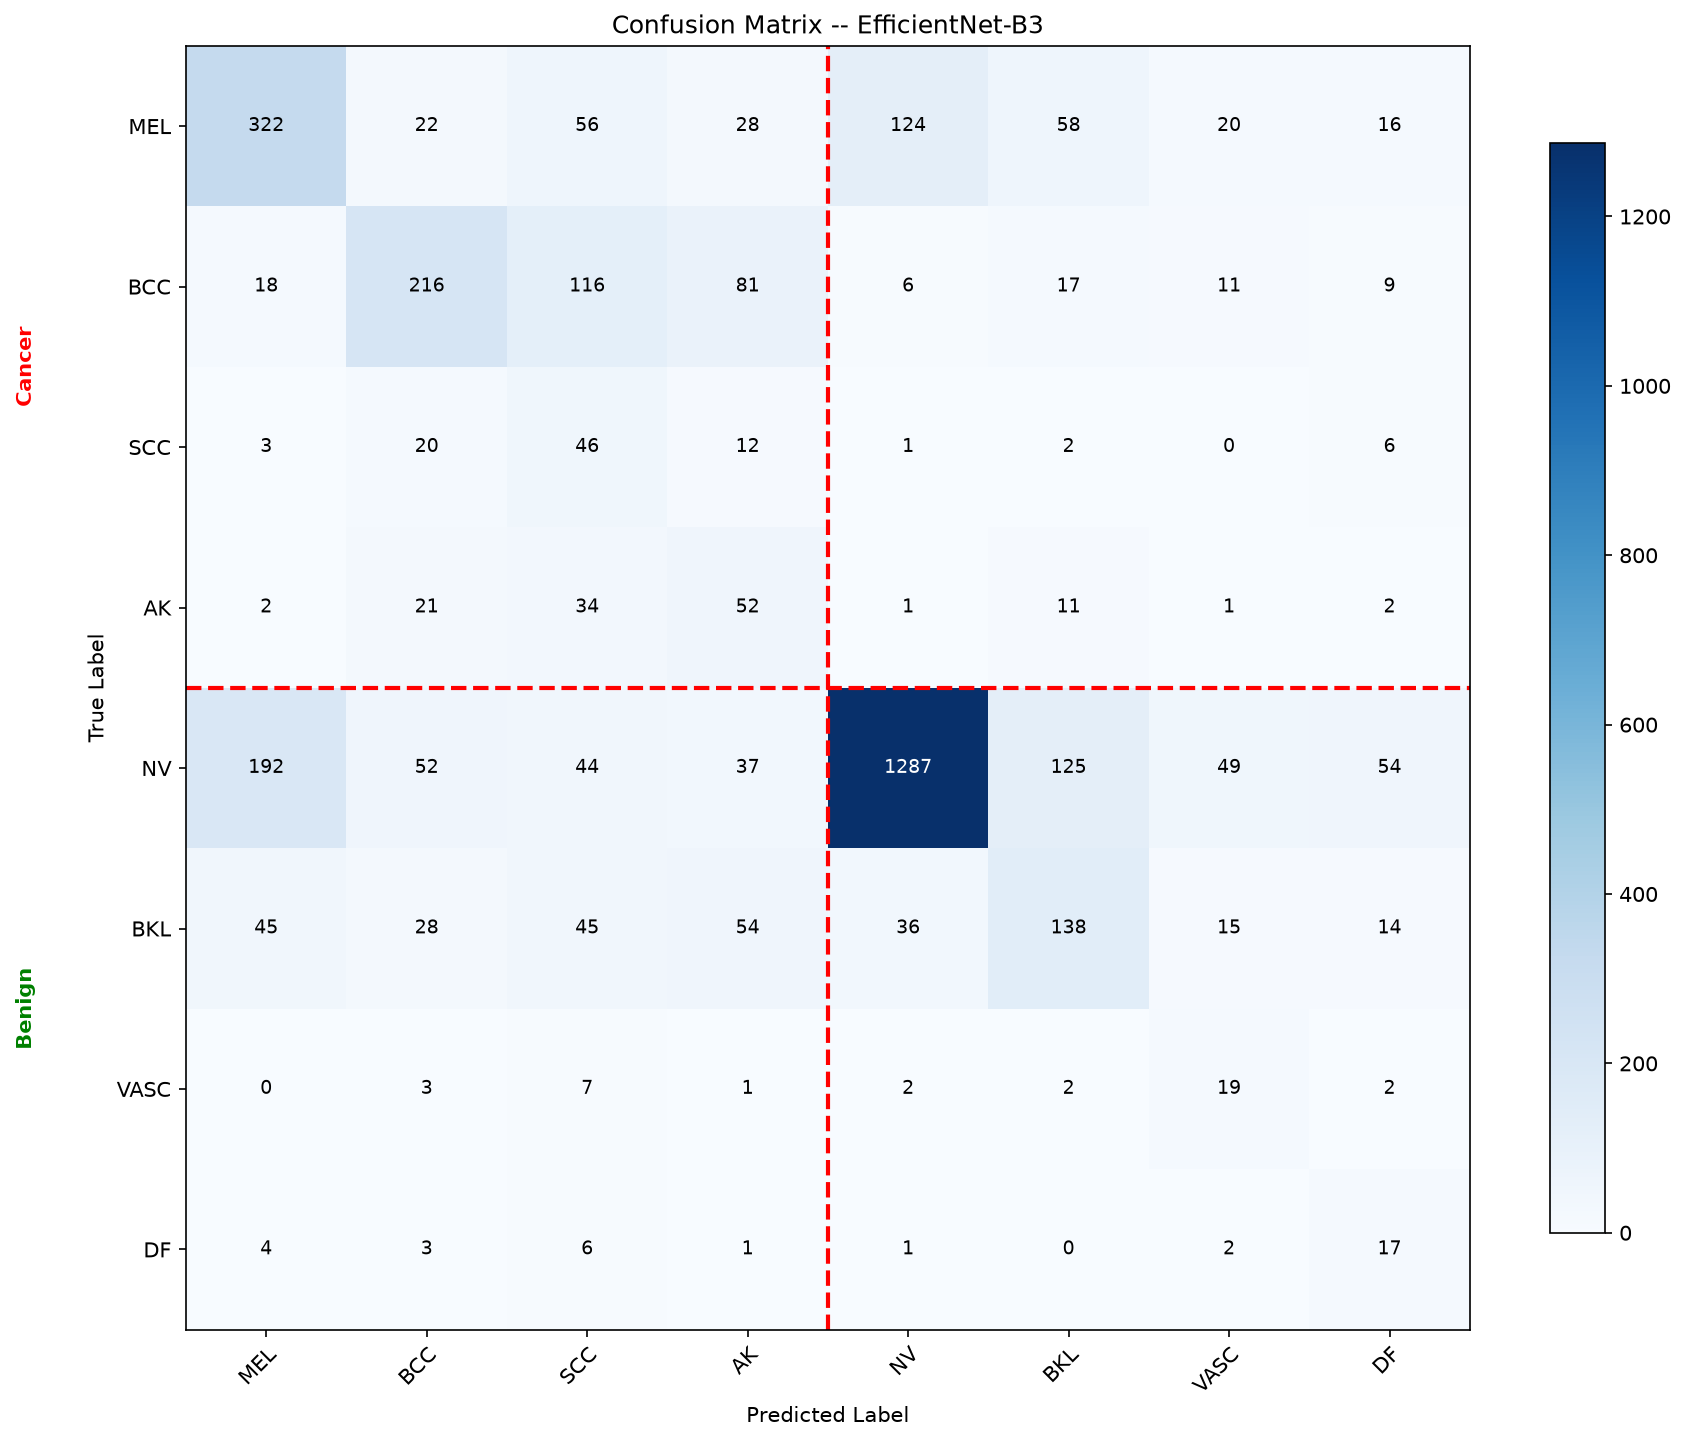
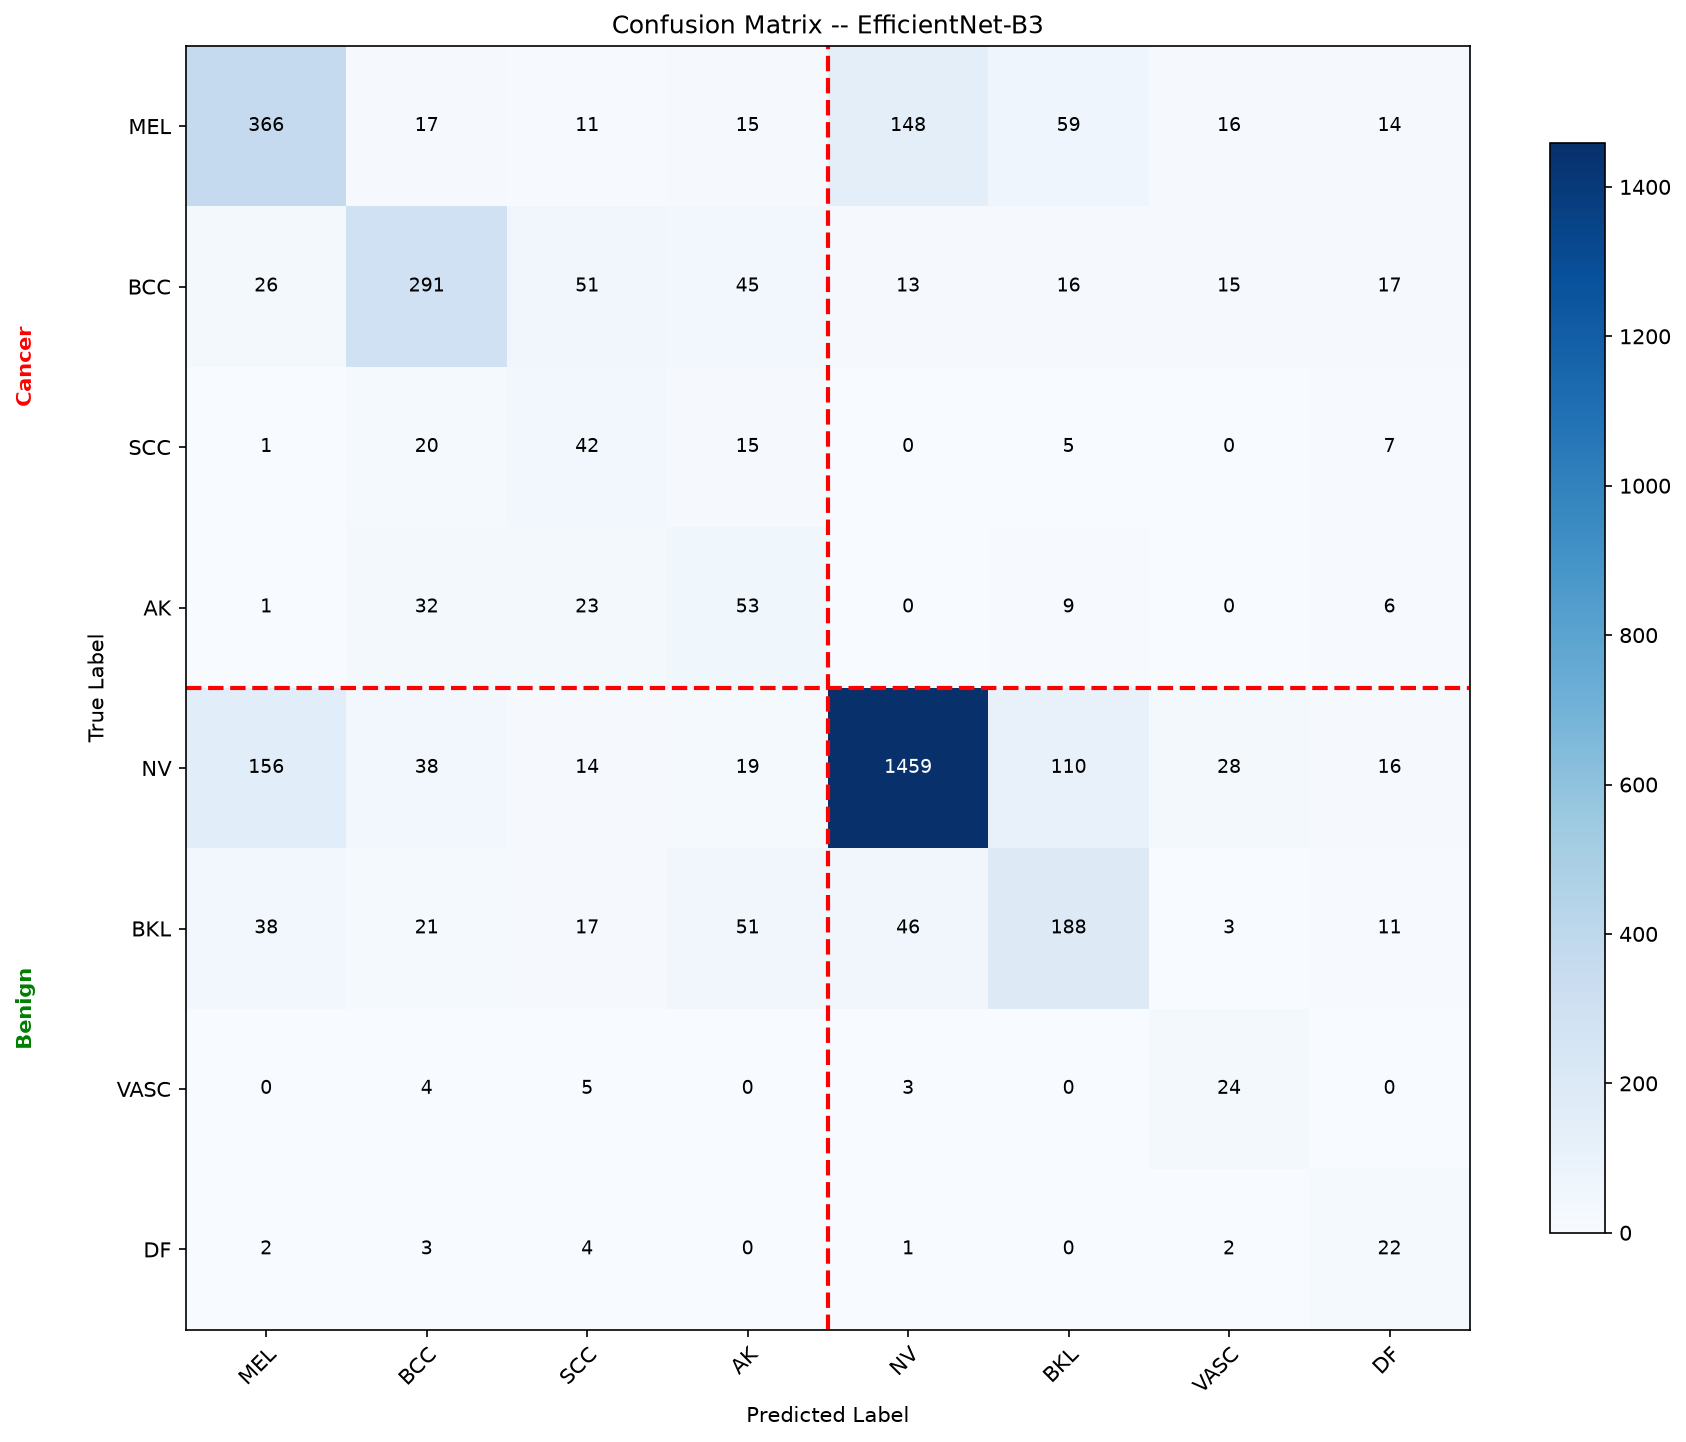
chore: metrics from unfreeze-more-layers run, update README results

diff --git a/README.md b/README.md
@@ -161,9 +161,9 @@ Linear(in_features, 512) -> ReLU -> BatchNorm1d(512) -> Dropout(0.3) -> Linear(5
 
 | Architecture | Total Parameters | Trainable Parameters | Fine-Tuning Backbone Depth |
 |---|---:|---:|---|
-| **ResNet50** | 24,562,248 | 16,018,952 | Layer 4 + Classifier Head |
-| **EfficientNet-B3** | 11,488,304 | 1,384,968 | Top Stage (Block 8) + Head |
-| **DenseNet121** | 7,483,784 | 2,688,008 | DenseBlock 4 + Transition + Head |
+| **ResNet50** | 24,562,248 | 23,117,320 | Layer 3 + Layer 4 + Classifier Head |
+| **EfficientNet-B3** | 11,488,304 | 9,298,150 | Stages 6–8 + Head |
+| **DenseNet121** | 7,483,784 | 6,054,152 | DenseBlock 3–4 + Transitions + Head |
 
 ---
 
@@ -171,24 +171,24 @@ Linear(in_features, 512) -> ReLU -> BatchNorm1d(512) -> Dropout(0.3) -> Linear(5
 
 Values below are copied from `metrics_*.json` (also shown in the web app's Model Performance tab).
 
-> [!WARNING]
-> These numbers were measured with the **old image-level split**, where 2,333 of the 3,800 test images
-> showed a lesion that also appeared in training. They are optimistic. Retrain with the current
-> lesion-grouped split (`python main.py`) and update this table from the new `metrics_*.json`.
+All numbers are on a **lesion-grouped** test split: every image of a lesion is in exactly one of
+train / validation / test, so the model is never tested on a lesion it saw during training. This is
+stricter (and lower) than the image-level random splits common in public notebooks.
 
 | Performance Metric | ResNet50 | DenseNet121 | EfficientNet-B3 | Clinical Benchmark Target |
 |---|:---:|:---:|:---:|:---:|
-| **Top-2 Differential Diagnosis** | **91.50% (Best)** | 85.21% | 78.39% | Primary Clinical Target (≥ 85%) |
-| **Top-3 Differential Diagnosis** | **96.50% (Best)** | 92.55% | 88.32% | Secondary Triage Target (≥ 90%) |
-| **Cancer Screening AUC-ROC** | **0.9245 (Best)** | 0.8934 | 0.8658 | Diagnostic Gold Standard (≥ 0.90) |
-| **Binary Malignancy Screening** | **85.37% (Best)** | 81.39% | 79.53% | Malignant vs Benign Triage |
-| **Exact 8-Class Match (Top-1)** | **75.66% (Best)** | 67.63% | 59.03% | Single Fine-Grained Label Match |
-| **Macro F1-Score** | **64.08% (Best)** | 53.07% | 42.80% | Cross-Class Balanced Harmonic Mean |
-| **Weighted F1-Score** | **75.67% (Best)** | 68.79% | 62.20% | Frequency-Weighted F1 |
-| **Cancer Sensitivity (Recall)** | **79.01% (Best)** | 77.94% | 73.59% | Malignancy Detection Rate |
-| **Cancer Specificity (Benign)** | **89.08% (Best)** | 83.41% | 82.99% | Non-Cancer Confirmation Rate |
-| **False Negative Rate (FNR)** | **20.99% (Best)** | 22.06% | 26.41% | Critical Missed Malignancy Rate |
-| **Training Duration** | 109.3 min | 58.0 min | 68.7 min | Wall-clock training time |
+| **Top-2 Differential Diagnosis** | **88.70% (Best)** | 86.96% | 84.80% | Primary Clinical Target (≥ 85%) |
+| **Top-3 Differential Diagnosis** | **94.89% (Best)** | 93.45% | 91.66% | Secondary Triage Target (≥ 90%) |
+| **Cancer Screening AUC-ROC** | **0.8854 (Best)** | 0.8852 | 0.8789 | Diagnostic Gold Standard (≥ 0.90) |
+| **Binary Malignancy Screening** | **75.38% (Best)** | 73.61% | 73.53% | Malignant vs Benign Triage |
+| **Exact 8-Class Match (Top-1)** | **71.73% (Best)** | 68.36% | 67.56% | Single Fine-Grained Label Match |
+| **Macro F1-Score** | **55.17% (Best)** | 50.63% | 49.42% | Cross-Class Balanced Harmonic Mean |
+| **Weighted F1-Score** | **72.12% (Best)** | 69.32% | 69.07% | Frequency-Weighted F1 |
+| **Cancer Sensitivity (Recall)** | 88.08% | **90.93% (Best)** | 89.88% | Malignancy Detection Rate (target 90% on validation) |
+| **Cancer Specificity (Benign)** | **67.96% (Best)** | 63.50% | 63.98% | Non-Cancer Confirmation Rate |
+| **False Negative Rate (FNR)** | 11.92% | **9.07% (Best)** | 10.12% | Critical Missed Malignancy Rate |
+| **Cancer Threshold** | 0.1849 | 0.2231 | 0.2707 | Tuned on validation set |
+| **Training Duration** | 228.3 min | 180.2 min | 135.2 min | Wall-clock training time |
 | **Total Model Parameters** | 24.6M | 7.5M | 11.5M | Model Footprint |
 
 ---
